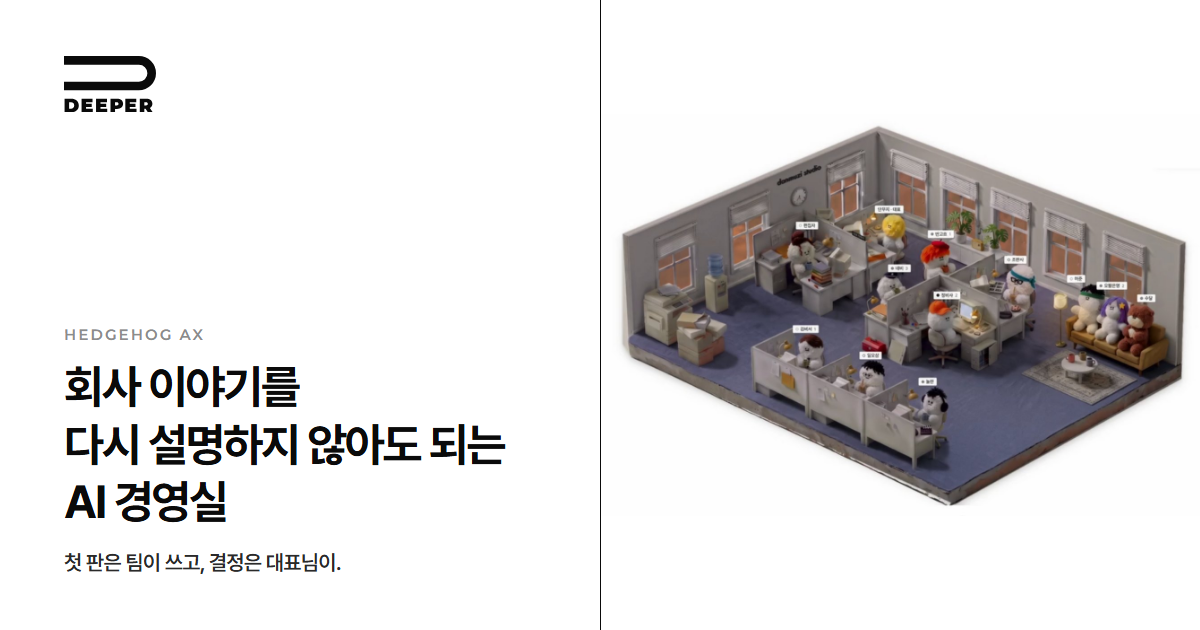
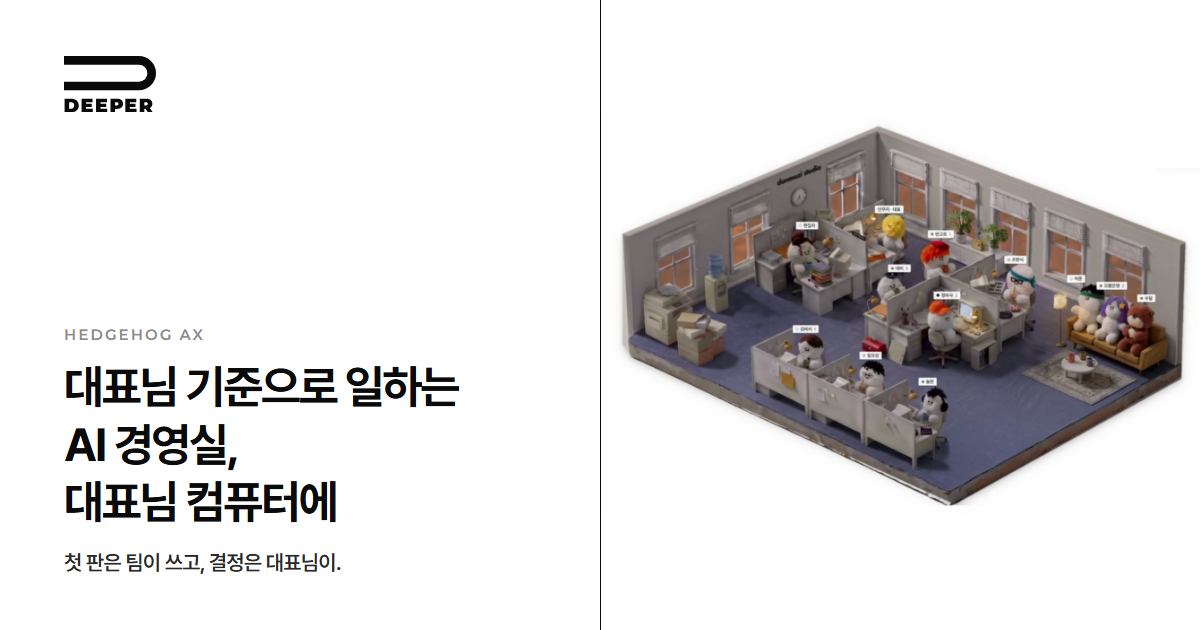
copy: headline to 'AI management office that works by the CEO's own criteria'

Changed region(s): [[0.0308, 0.573, 0.4317, 0.8444]]

diff --git a/deeper_hedgehog_ax.html b/deeper_hedgehog_ax.html
@@ -3,11 +3,11 @@
 <head>
 <meta charset="utf-8">
 <meta name="viewport" content="width=device-width, initial-scale=1, viewport-fit=cover">
-<title>다시 설명하지 않아도 되는 AI 경영실 — DEEPER</title>
+<title>대표님 기준으로 일하는 AI 경영실 — DEEPER</title>
 <meta name="description" content="기준은 한 번만 적습니다. 첫 판은 팀이 쓰고 보낼지는 대표님이 정합니다. 먼저 20분 상담부터.">
 <meta property="og:type" content="website">
 <meta property="og:site_name" content="DEEPER">
-<meta property="og:title" content="다시 설명하지 않아도 되는 AI 경영실 — DEEPER">
+<meta property="og:title" content="대표님 기준으로 일하는 AI 경영실 — DEEPER">
 <meta property="og:description" content="기준은 한 번만 적습니다. 첫 판은 팀이 쓰고 보낼지는 대표님이 정합니다. 먼저 20분 상담부터.">
 <meta property="og:url" content="https://clbookslower.github.io/deeper-salon/deeper_hedgehog_ax.html">
 <meta property="og:image" content="https://clbookslower.github.io/deeper-salon/deeper_hedgehog_ax_og.png">
@@ -15,7 +15,7 @@
 <meta property="og:image:height" content="630">
 <meta property="og:locale" content="ko_KR">
 <meta name="twitter:card" content="summary_large_image">
-<meta name="twitter:title" content="다시 설명하지 않아도 되는 AI 경영실 — DEEPER">
+<meta name="twitter:title" content="대표님 기준으로 일하는 AI 경영실 — DEEPER">
 <meta name="twitter:description" content="기준은 한 번만 적습니다. 첫 판은 팀이 쓰고 보낼지는 대표님이 정합니다. 먼저 20분 상담부터.">
 <meta name="twitter:image" content="https://clbookslower.github.io/deeper-salon/deeper_hedgehog_ax_og.png">
 <meta name="theme-color" content="#ffffff">
@@ -148,8 +148,8 @@ details.more[open] summary::after{content:"\2212"}
 <main class="wrap">
 <div class="hero">
 <span class="tag">DEEPER · Hedgehog AX</span>
-<h1 class="ko1">회사 이야기를 다시 설명하지 않아도 되는 AI 경영실</h1>
-<p class="sub">1인 전문가와 대표님의 컴퓨터에, 대표님 기준으로 일하는 경영실과 전담팀을 세웁니다.</p>
+<h1 class="ko1">대표님 기준으로 일하는 AI 경영실, 대표님 컴퓨터에</h1>
+<p class="sub">1인 전문가와 작은 회사 대표를 위한 경영실과 전담팀. 한 번 적은 판단 기준으로 계속 일합니다.</p>
 <p class="benefit"><b>다시 설명하지 않습니다.</b> 한 번 적은 판단 기준을 경영실이 기억합니다. 새 대화도 거기서 시작합니다.<br><b>일일이 챙기던 첫 판은 팀이 씁니다.</b> 자료 정리와 보고서·레터 첫 판을 전담팀이 먼저 만들어 둡니다.<br><b>대표님의 시간은 결정에.</b> 보낼지, 바꿀지, 멈출지는 대표님이 정합니다.</p>
 </div>
 
